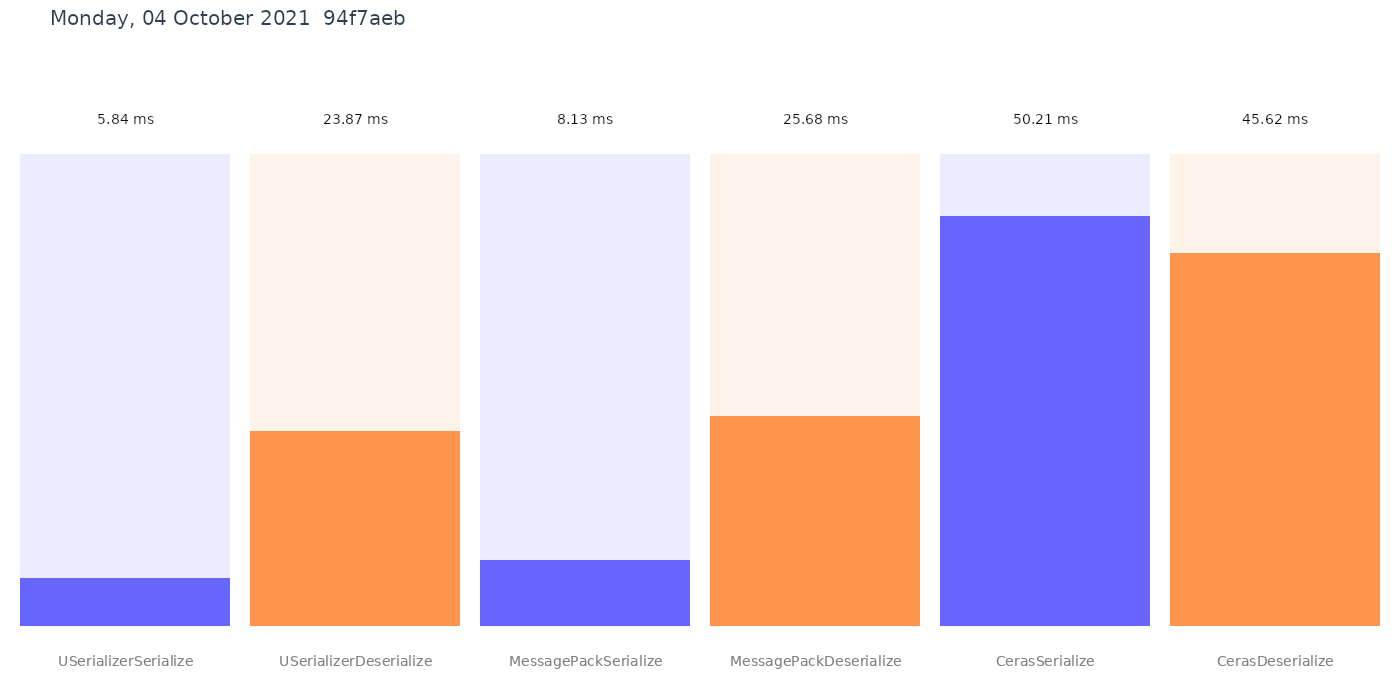
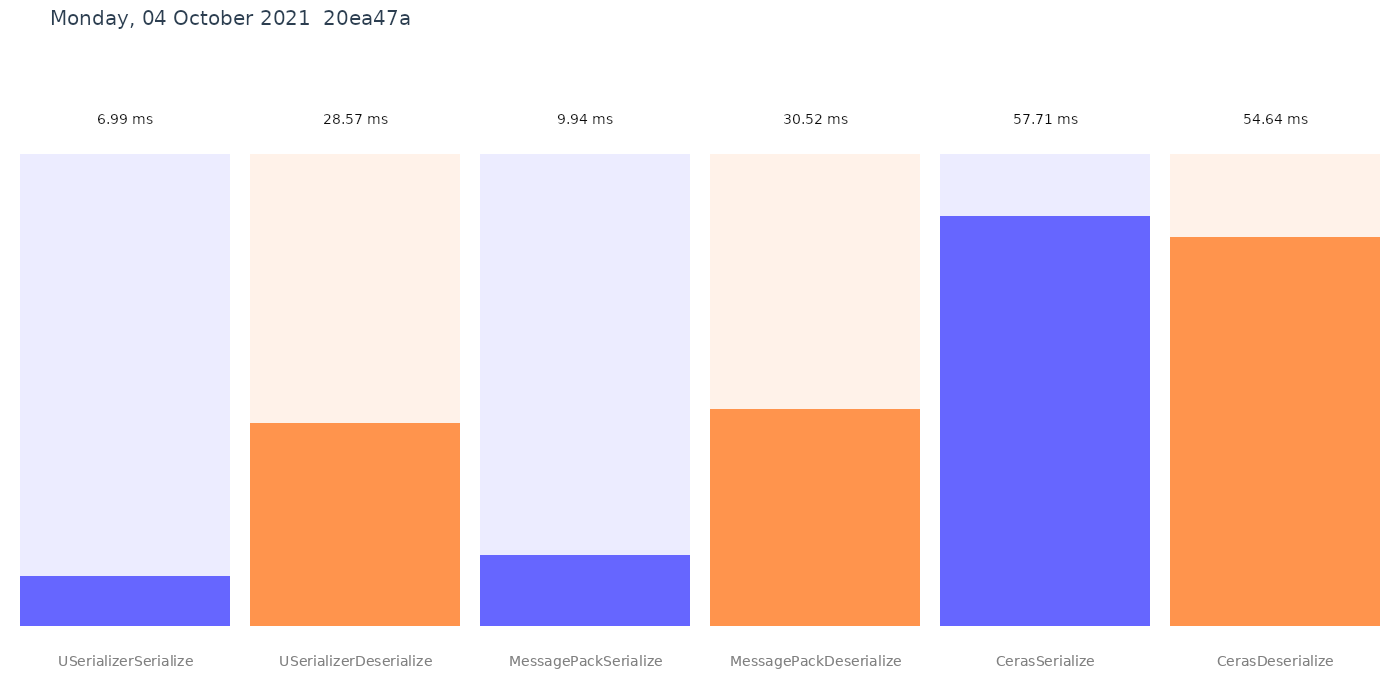
deploy: 20ea47a7d1cba21459b8d3cdf6ee332f605c89a0

diff --git a/performance.md b/performance.md
@@ -1,7 +1,7 @@
 ``` ini
 
 BenchmarkDotNet=v0.12.1, OS=ubuntu 20.04
-Intel Xeon Platinum 8272CL CPU 2.60GHz, 1 CPU, 2 logical and 2 physical cores
+Intel Xeon Platinum 8171M CPU 2.60GHz, 1 CPU, 2 logical and 2 physical cores
 .NET Core SDK=5.0.401
   [Host]   : .NET Core 5.0.10 (CoreCLR 5.0.1021.41214, CoreFX 5.0.1021.41214), X64 RyuJIT
   ShortRun : .NET Core 5.0.10 (CoreCLR 5.0.1021.41214, CoreFX 5.0.1021.41214), X64 RyuJIT
@@ -12,9 +12,9 @@ WarmupCount=3
 ```
 |                 Method |      Mean |     Error |    StdDev |
 |----------------------- |----------:|----------:|----------:|
-|   USerializerSerialize |  5.837 ms | 0.0194 ms | 0.0011 ms |
-| USerializerDeserialize | 23.871 ms | 4.3390 ms | 0.2378 ms |
-|   MessagePackSerialize |  8.135 ms | 0.0094 ms | 0.0005 ms |
-| MessagePackDeserialize | 25.684 ms | 3.9811 ms | 0.2182 ms |
-|         CerasSerialize | 50.212 ms | 1.0786 ms | 0.0591 ms |
-|       CerasDeserialize | 45.617 ms | 2.4300 ms | 0.1332 ms |
+|   USerializerSerialize |  6.988 ms | 0.2942 ms | 0.0161 ms |
+| USerializerDeserialize | 28.572 ms | 4.4121 ms | 0.2418 ms |
+|   MessagePackSerialize |  9.939 ms | 8.7909 ms | 0.4819 ms |
+| MessagePackDeserialize | 30.525 ms | 4.8068 ms | 0.2635 ms |
+|         CerasSerialize | 57.712 ms | 5.8137 ms | 0.3187 ms |
+|       CerasDeserialize | 54.636 ms | 1.8504 ms | 0.1014 ms |
